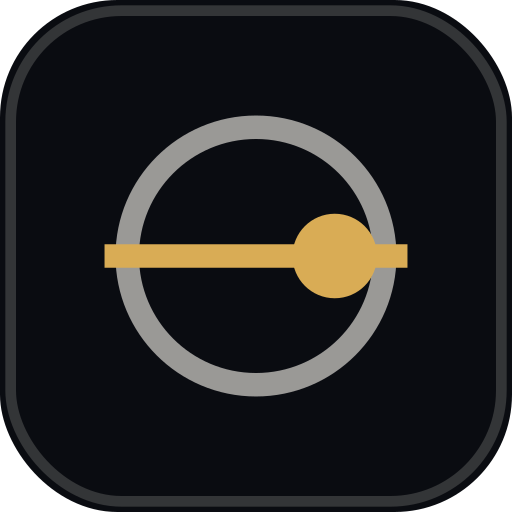
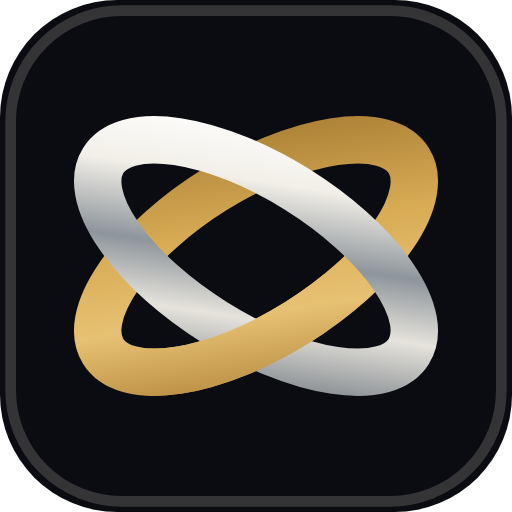
Replace brand glyph with the interlocking-rings mark
Swaps the placeholder circle-and-bar glyph for the company mark across
the published site:

- header and footer lockups, via a single inline <symbol> referenced in
  both places, using the site palette (cream-steel and gold) so it reads
  on the dark ground
- site/brand/mark-dark.svg and mark-light.svg
- favicon.svg, favicon.png, images/icon-192.png, images/icon-512.png
- images/og.png, with the rest of the social card left untouched

The bordered badge that framed the old glyph is dropped; the mark is
self-sufficient and needed the room.

diff --git a/site/index.html b/site/index.html
@@ -67,7 +67,7 @@ header{position:sticky;top:0;z-index:60;background:rgba(10,12,17,.9);backdrop-fi
   border-bottom:1px solid var(--r1)}
 .bar{display:flex;align-items:center;justify-content:space-between;height:60px}
 .brand{display:flex;align-items:center;gap:10px}
-.glyph{width:26px;height:26px;border:1px solid var(--r2);border-radius:8px;display:grid;place-items:center;flex:none}
+.glyph{width:32px;height:24px;display:grid;place-items:center;flex:none}
 .bn{font-family:"Playfair Display",serif;font-size:19px;color:var(--fg);letter-spacing:-.02em}
 .bn em{font-style:normal;font-family:"JetBrains Mono",monospace;font-size:11px;color:var(--mut);margin-left:7px;letter-spacing:0}
 nav{display:flex;align-items:center;gap:26px}
@@ -203,6 +203,38 @@ footer li a:hover{color:var(--fg)}
 <script>document.documentElement.className+=' js'</script>
 <body>
 
+<!-- Brand mark: two interlocking rings. Defined once, referenced in the
+     header and the footer. Gradients use the site palette so the mark
+     reads on the dark ground. -->
+<svg width="0" height="0" aria-hidden="true" style="position:absolute">
+  <defs>
+    <linearGradient id="mk-steel" x1="0" y1="0" x2="1" y2="1">
+      <stop offset="0%" stop-color="#ffffff"/>
+      <stop offset="24%" stop-color="#f2efe8"/>
+      <stop offset="50%" stop-color="#8e959b"/>
+      <stop offset="72%" stop-color="#e6e3dc"/>
+      <stop offset="100%" stop-color="#767d84"/>
+    </linearGradient>
+    <linearGradient id="mk-gold" x1="0" y1="1" x2="1" y2="0">
+      <stop offset="0%" stop-color="#b4873c"/>
+      <stop offset="30%" stop-color="#e7c173"/>
+      <stop offset="58%" stop-color="#d9ac55"/>
+      <stop offset="100%" stop-color="#a67c33"/>
+    </linearGradient>
+    <path id="mk-ring" d="M200 150 m-152 0 a152 66 0 1 0 304 0 a152 66 0 1 0 -304 0"/>
+    <clipPath id="mk-front"><rect x="110" y="165" width="150" height="135"/></clipPath>
+    <symbol id="mk" viewBox="0 0 400 300">
+      <g fill="none">
+        <g transform="rotate(-32 200 150)"><use href="#mk-ring" stroke="url(#mk-gold)" stroke-width="34"/></g>
+        <g transform="rotate(32 200 150)"><use href="#mk-ring" stroke="url(#mk-steel)" stroke-width="34"/></g>
+        <g clip-path="url(#mk-front)">
+          <g transform="rotate(-32 200 150)"><use href="#mk-ring" stroke="url(#mk-gold)" stroke-width="34"/></g>
+        </g>
+      </g>
+    </symbol>
+  </defs>
+</svg>
+
 <div class="tick">
   <div class="row">
     <s><i>Desk</i><b>London</b> · United Kingdom</s>
@@ -222,11 +254,7 @@ footer li a:hover{color:var(--fg)}
  <div class="pad bar">
   <a class="brand" href="#top">
     <span class="glyph">
-      <svg width="15" height="15" viewBox="0 0 24 24" fill="none">
-        <circle cx="12" cy="12" r="8.5" stroke="#F2EFE8" stroke-opacity=".55" stroke-width="1"/>
-        <path d="M2.5 12h19" stroke="#D9AC55" stroke-width="1"/>
-        <circle cx="17.2" cy="12" r="1.7" fill="#D9AC55"/>
-      </svg>
+      <svg width="32" height="24" viewBox="0 0 400 300"><use href="#mk"/></svg>
     </span>
     <span class="bn">1402<em>celsius</em></span>
   </a>
@@ -465,10 +493,7 @@ footer li a:hover{color:var(--fg)}
   <div class="fg">
     <div>
       <div class="brand" style="margin-bottom:18px">
-        <span class="glyph"><svg width="15" height="15" viewBox="0 0 24 24" fill="none">
-          <circle cx="12" cy="12" r="8.5" stroke="#F2EFE8" stroke-opacity=".55" stroke-width="1"/>
-          <path d="M2.5 12h19" stroke="#D9AC55" stroke-width="1"/>
-          <circle cx="17.2" cy="12" r="1.7" fill="#D9AC55"/></svg></span>
+        <span class="glyph"><svg width="32" height="24" viewBox="0 0 400 300"><use href="#mk"/></svg></span>
         <span class="bn">1402<em>celsius</em></span>
       </div>
       <p class="m" style="max-width:42ch">Global trade consultancy and procurement. We open markets for manufacturers and secure vetted supply for buyers.</p>
